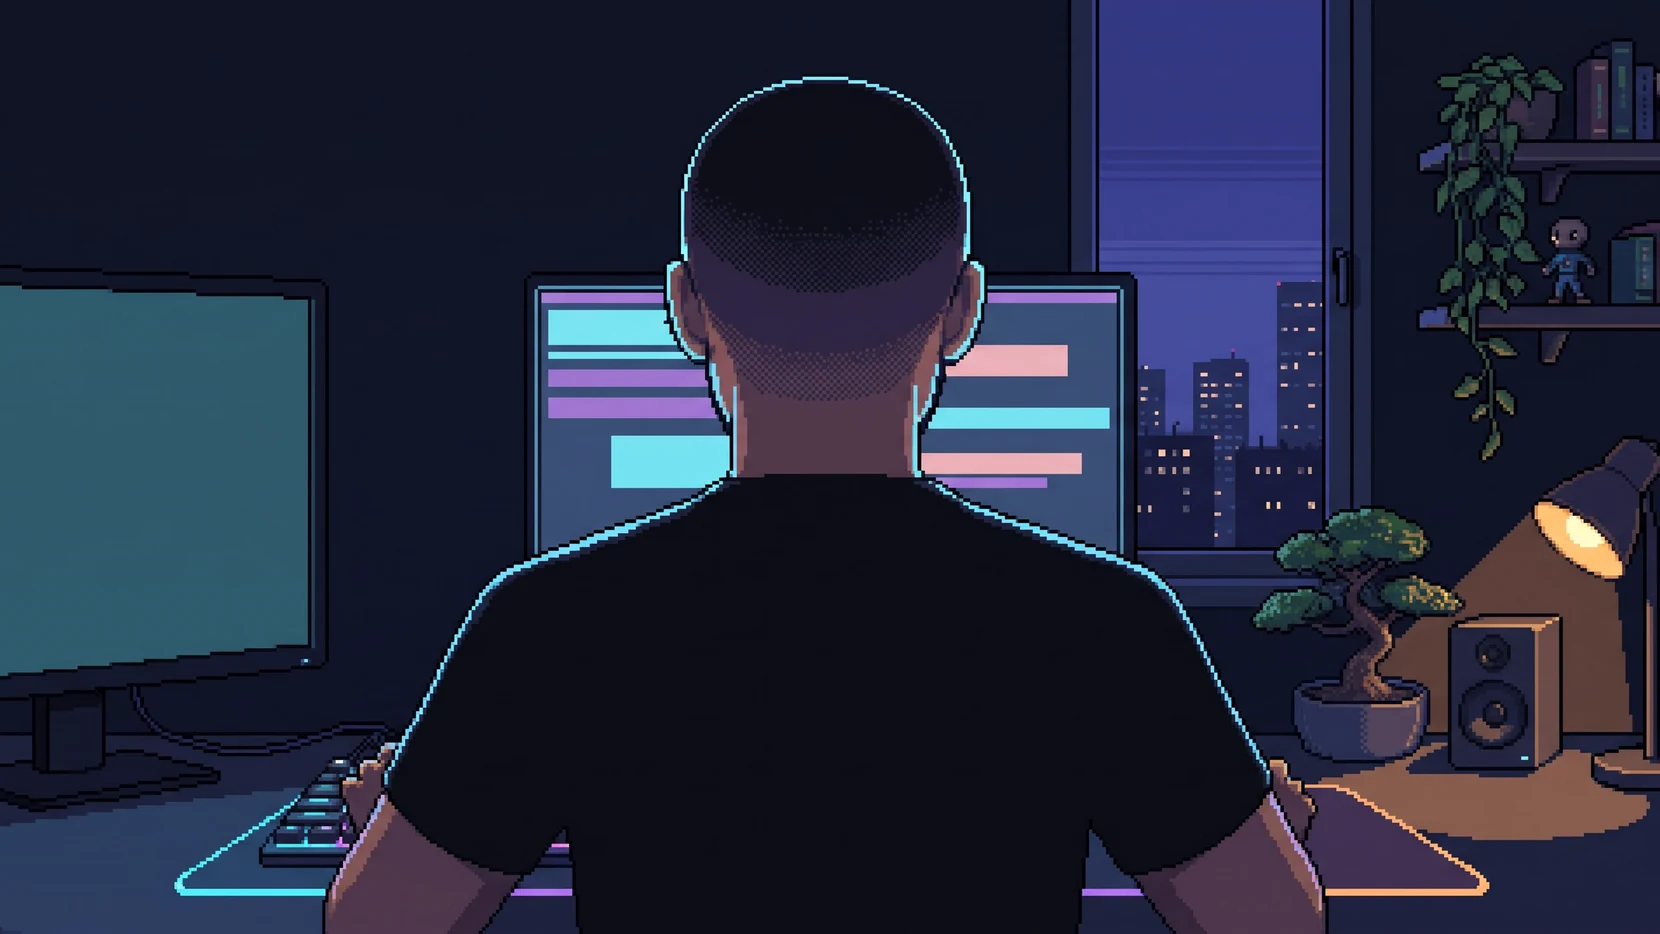
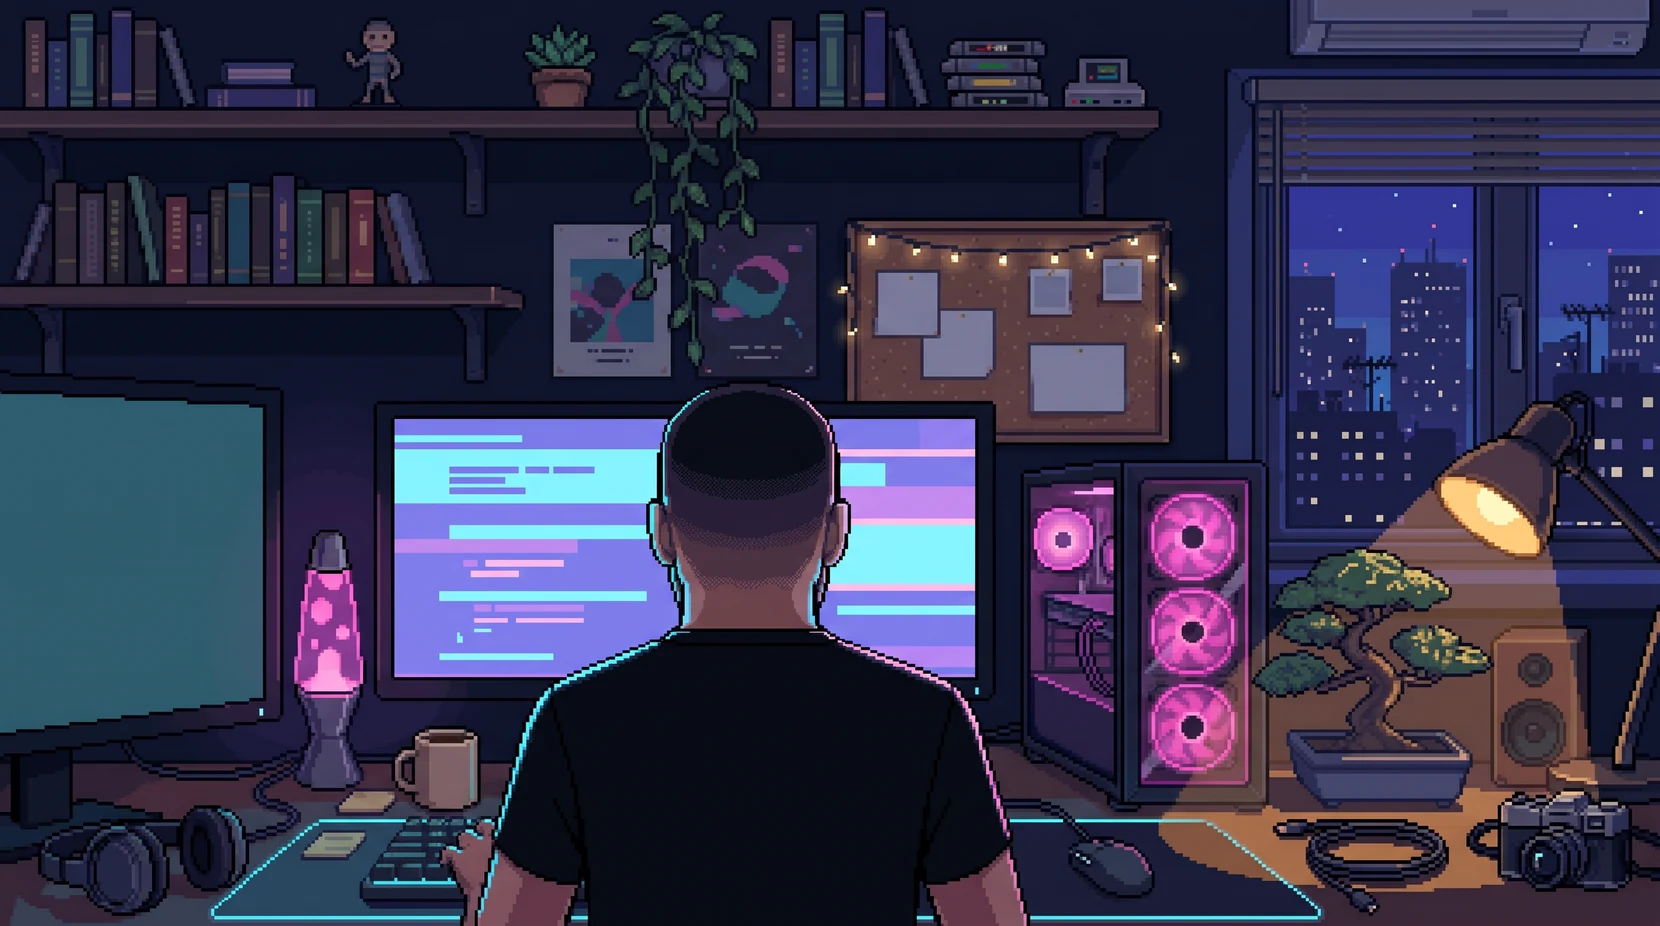
feat: portada pixel art con mucho más detalle (generada en Google Flow)

diff --git a/README.md b/README.md
@@ -1,6 +1,6 @@
 <div align="center">
 
-<img src="assets/portada-pixel.webp" width="830" alt="Pixel art de Alessandro de espaldas, programando de noche frente a un monitor, con una ventana a la ciudad, un bonsái y una lámpara.">
+<img src="assets/portada-pixel.webp" width="830" alt="Pixel art de Alessandro de espaldas, programando de noche en su habitación: dos monitores, un PC con ventiladores rosas, una lámpara de lava, estanterías con libros, un corcho con luces, un bonsái, una lámpara de escritorio y una ventana a la ciudad.">
 
 <picture>
   <source media="(prefers-reduced-motion: reduce)" srcset="assets/header-static.png">
